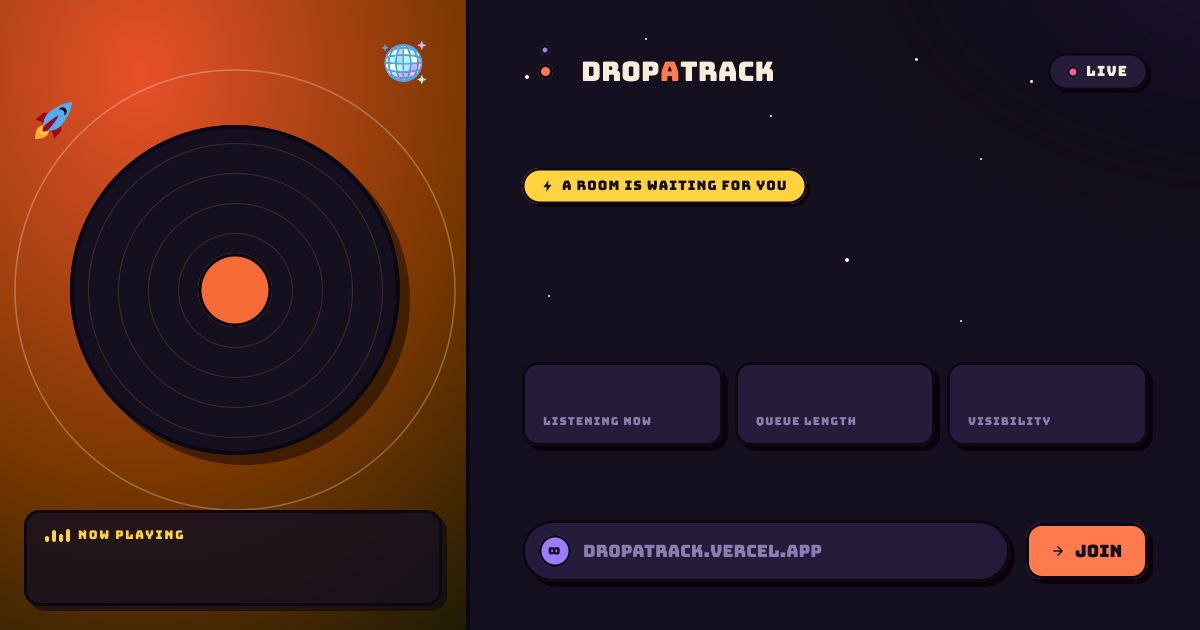
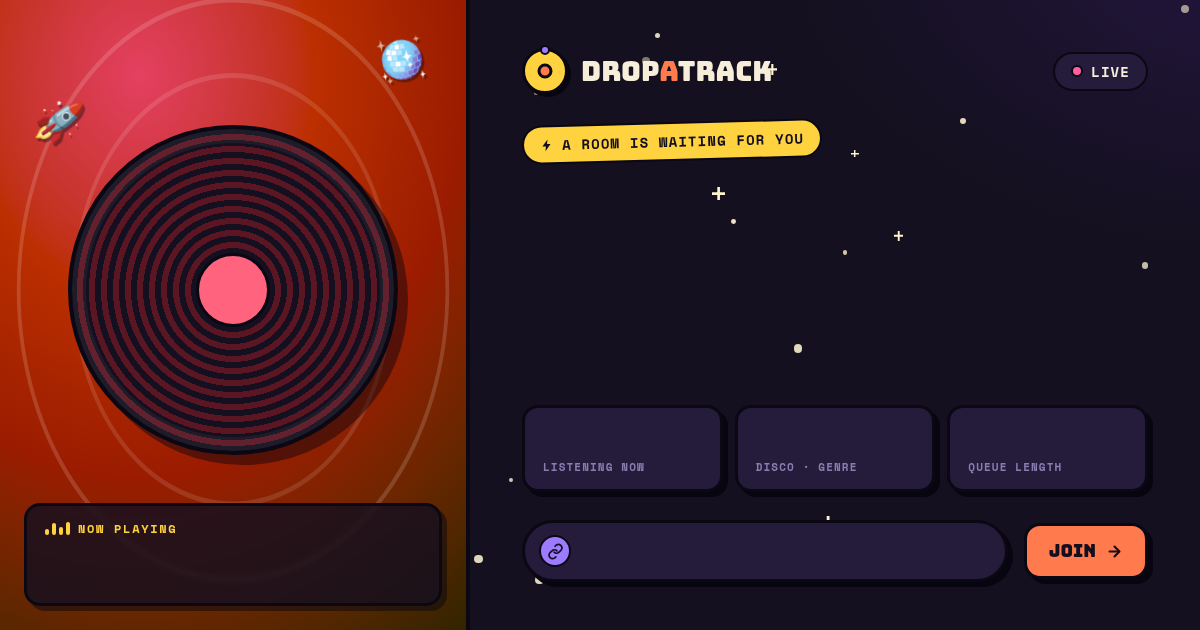
perf(og): re-bake frame from design HTML via puppeteer, align overlay coords

diff --git a/scripts/gen-og-frame.ts b/scripts/gen-og-frame.ts
@@ -1,0 +1,44 @@
+/**
+ * Captures the static OG frame from the design HTML using puppeteer.
+ * Dynamic text is blanked (invisible) so only chrome remains.
+ * Run: npx tsx scripts/gen-og-frame.ts
+ */
+import puppeteer from 'puppeteer-core';
+import path from 'node:path';
+import fs from 'node:fs/promises';
+
+const HTML_PATH = path.join(process.cwd(), 'design/og-image-v2.html');
+const OUT_PATH  = path.join(process.cwd(), 'public/og/frame.png');
+
+async function main() {
+  const browser = await puppeteer.launch({
+    executablePath: '/usr/bin/google-chrome',
+    args: ['--no-sandbox', '--disable-setuid-sandbox'],
+  });
+
+  const page = await browser.newPage();
+  await page.setViewport({ width: 1200, height: 630, deviceScaleFactor: 1 });
+  await page.goto(`file://${HTML_PATH}`, { waitUntil: 'networkidle2', timeout: 15000 });
+
+  // Blank all dynamic text so only chrome remains.
+  // Use visibility:hidden to preserve layout height.
+  // Inline JS string avoids tsx transform injecting __name into serialized fn
+  await page.evaluate(`(function(){
+    var sels=['.nowtag .trk','.nowtag .art','.roomname','.metarow','.statgrid .big','.urlpill .u'];
+    sels.forEach(function(s){
+      document.querySelectorAll(s).forEach(function(el){ el.style.visibility='hidden'; });
+    });
+  })()`);
+
+  const ogEl = await page.$('.og');
+  if (!ogEl) throw new Error('Could not find .og element');
+
+  const buf = await ogEl.screenshot({ type: 'png' });
+  await fs.mkdir(path.dirname(OUT_PATH), { recursive: true });
+  await fs.writeFile(OUT_PATH, buf);
+  console.log(`Wrote ${OUT_PATH} (${(buf as Buffer).length} bytes)`);
+
+  await browser.close();
+}
+
+main().catch(e => { console.error(e); process.exit(1); });

diff --git a/app/api/og/route.tsx b/app/api/og/route.tsx
@@ -121,19 +121,19 @@ export async function GET(req: NextRequest) {
           {/* eslint-disable-next-line @next/next/no-img-element */}
           <img src={frame} width={1200} height={630} style={{ position: 'absolute', top: 0, left: 0 }} alt="" />
 
-          {/* now-playing track + artist — inside left card (card top=510, pad 14px top+18px left, clear eq bars ~19px) */}
-          <div style={{ position: 'absolute', left: 42, top: 547, width: 386, display: 'flex', flexDirection: 'column', overflow: 'hidden' }}>
+          {/* now-playing: nowtag bottom=24, ~87px tall → top=519; pad 14+eq(19) = text at 552; left=24+18=42 */}
+          <div style={{ position: 'absolute', left: 42, top: 552, width: 386, display: 'flex', flexDirection: 'column', overflow: 'hidden' }}>
             <div style={{ fontSize: 21, fontWeight: 700, color: INK, lineHeight: 1.1, display: 'flex' }}>{track || 'Queue is empty'}</div>
             {artist && (
               <div style={{ fontSize: 13, color: INK_DIM, fontFamily: 'monospace', marginTop: 3, textTransform: 'uppercase', letterSpacing: '0.06em', display: 'flex' }}>{artist}</div>
             )}
           </div>
 
-          {/* room name */}
-          <div style={{ position: 'absolute', left: 522, top: 196, width: 626, display: 'flex', fontFamily: 'Bungee, system-ui', fontSize: 60, lineHeight: 0.98, color: INK }}>{roomDisplay}</div>
+          {/* room name: body y≈164 + kicker 53px = 217 */}
+          <div style={{ position: 'absolute', left: 522, top: 217, width: 626, display: 'flex', fontFamily: 'Bungee, system-ui', fontSize: 60, lineHeight: 0.98, color: INK }}>{roomDisplay}</div>
 
-          {/* listener avatars + hosted-by */}
-          <div style={{ position: 'absolute', left: 522, top: 296, width: 626, display: 'flex', alignItems: 'center', gap: 12 }}>
+          {/* listeners: after room name 61+22px = 300 */}
+          <div style={{ position: 'absolute', left: 522, top: 300, width: 626, display: 'flex', alignItems: 'center', gap: 12 }}>
             {listeners.length > 0 && (
               <div style={{ display: 'flex' }}>
                 {listeners.map((name, i) => (
@@ -149,14 +149,14 @@ export async function GET(req: NextRequest) {
             )}
           </div>
 
-          {/* stat numbers — x = card_left + 18px inner padding; y = card_top + 14px inner padding */}
-          <div style={{ position: 'absolute', left: 540, top: 384, fontFamily: 'Bungee, system-ui', fontSize: 28, lineHeight: 1, color: CORAL, display: 'flex' }}>{listeners.length > 0 ? String(listeners.length + extra) : '—'}</div>
-          <div style={{ position: 'absolute', left: 752, top: 384, fontFamily: 'Bungee, system-ui', fontSize: 28, lineHeight: 1, color: CORAL, display: 'flex' }}>{queueDisplay}</div>
-          <div style={{ position: 'absolute', left: 964, top: 384, fontFamily: 'Bungee, system-ui', fontSize: 28, lineHeight: 1, color: CORAL, display: 'flex' }}>{isPublic ? 'OPEN' : 'PRIV'}</div>
+          {/* stat numbers: statgrid y=380 + 14px pad = 394; x = card_left + 18px pad */}
+          <div style={{ position: 'absolute', left: 540, top: 394, fontFamily: 'Bungee, system-ui', fontSize: 28, lineHeight: 1, color: CORAL, display: 'flex' }}>{listeners.length > 0 ? String(listeners.length + extra) : '—'}</div>
+          <div style={{ position: 'absolute', left: 753, top: 394, fontFamily: 'Bungee, system-ui', fontSize: 28, lineHeight: 1, color: CORAL, display: 'flex' }}>{queueDisplay}</div>
+          <div style={{ position: 'absolute', left: 966, top: 394, fontFamily: 'Bungee, system-ui', fontSize: 28, lineHeight: 1, color: CORAL, display: 'flex' }}>{isPublic ? 'OPEN' : 'PRIV'}</div>
 
-          {/* URL slug — inside pill: x = pill_left + 14px pad + 32px circle + 12px gap; y = pill_top + 12px pad + centering */}
+          {/* URL slug: footer y=526, pill pad 12+circle_center 16 = 544; x=470+52+14+32+12=580 */}
           {t && (
-            <div style={{ position: 'absolute', left: 580, top: 541, display: 'flex', fontFamily: 'monospace', fontSize: 17, fontWeight: 700, color: INK }}>{`/${t}`}</div>
+            <div style={{ position: 'absolute', left: 580, top: 544, display: 'flex', fontFamily: 'monospace', fontSize: 17, fontWeight: 700, color: INK }}>{`/${t}`}</div>
           )}
         </div>
       ),